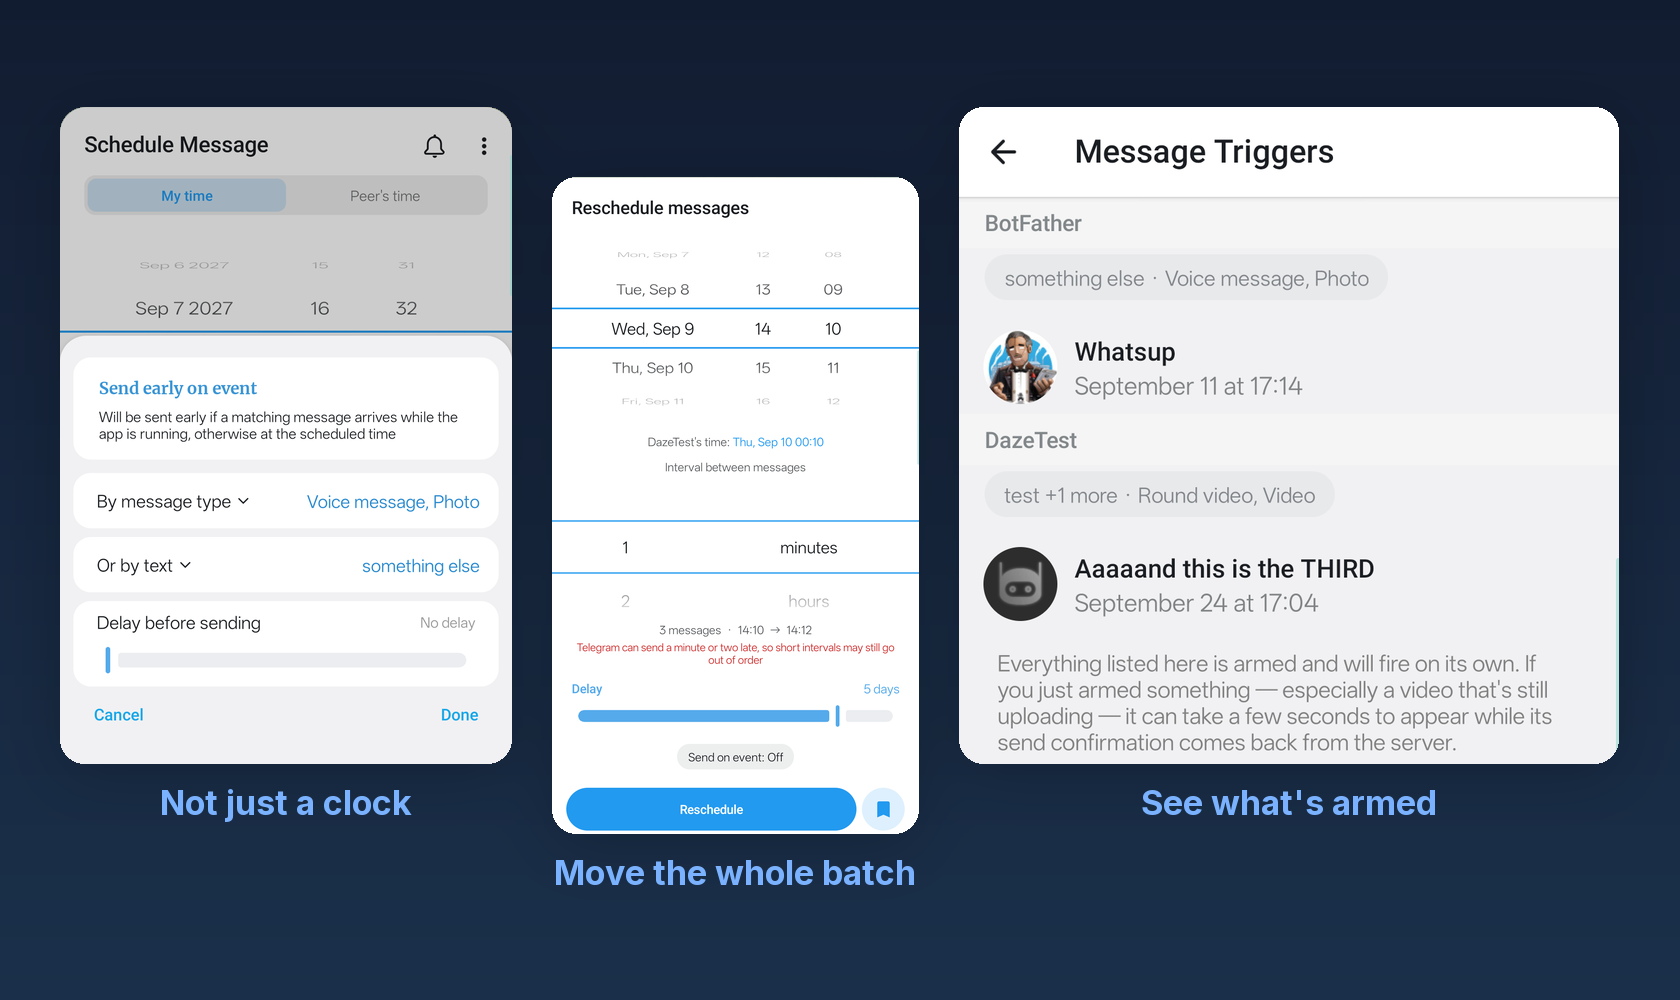
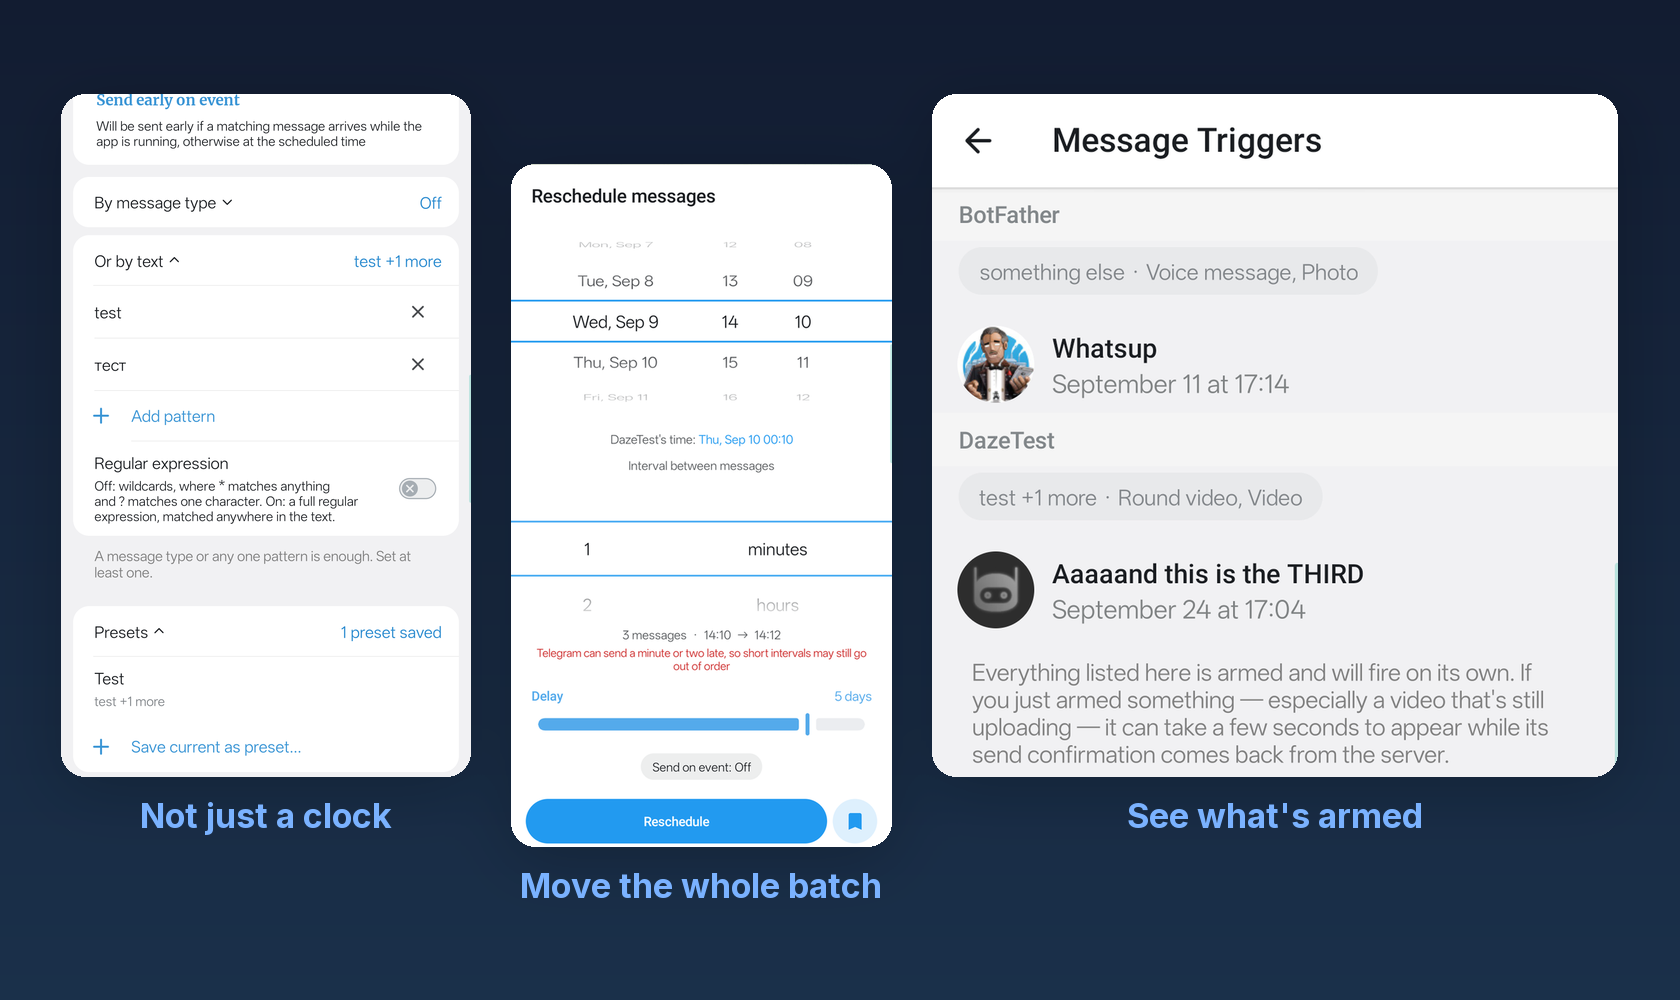
Refresh the scheduled-messages wall with trigger presets #docs
The first panel showed the trigger editor before presets existed. Point it at the 2026-09-11 capture of the same sheet instead, which carries the pattern rows, their clear buttons and the Presets card. The two remaining panels keep their crops and gain room now that the first panel is less tall.

Changed region(s): [[0.031, 0.093, 0.9595, 0.899], [0.3714, 0.434, 0.4952, 0.496], [0.0619, 0.558, 0.1238, 0.589]]

diff --git a/README.md b/README.md
@@ -20,10 +20,10 @@ This README covers the highlights. The full list, with what each one does, is in
 <img src="docs/images/composer.png" alt="Four views of Dazegram's composer toolbar: the glass action row live in a chat with text selected, the drag list for reordering leading and scrolling buttons, the toolbar size and icon spacing sliders, and the message field expanded to full screen.">
 </p>
 
-**Scheduled messages:** A schedule is usually just a clock: pick a time, wait for it. Arm a trigger instead and a message sends early the moment a reply matches a message type or a bit of text, keeping its original time as a fallback if it never does. Bulk-reschedule a whole batch at once, spread by an interval, instead of dragging each one by hand.
+**Scheduled messages:** A schedule is usually just a clock: pick a time, wait for it. Arm a trigger instead and a message sends early the moment a reply matches a message type or a bit of text, keeping its original time as a fallback if it never does. Save a set of conditions you reach for often as a named preset and put it back in two taps. Bulk-reschedule a whole batch at once, spread by an interval, instead of dragging each one by hand.
 
 <p align="center">
-<img src="docs/images/scheduling.png" alt="Three views of Dazegram's scheduled message triggers: the Schedule Message sheet with a collapsed Send early on event card offering By message type and Or by text conditions above a delay slider, the bulk Reschedule sheet with a date/time grid, an interval and delay slider, and a Send on event toggle, and the Message Triggers list showing armed triggers for two test contacts with their message-type and text conditions.">
+<img src="docs/images/scheduling.png" alt="Three views of Dazegram's scheduled message triggers: the Send early on event card offering By message type and Or by text conditions, with two saved text patterns each carrying its own clear button and a Presets card holding a saved setup below them, the bulk Reschedule sheet with a date/time grid, an interval and delay slider, and a Send on event toggle, and the Message Triggers list showing armed triggers for two test contacts with their message-type and text conditions.">
 </p>
 
 **Privacy profiles:** Your auto-lock shouldn't be the same at home as it is on a train. Save named timeouts and switch to one temporarily — for now, for a set stretch of time, or until a given moment. Long-press the Settings tab in the chat list to swap between them.
